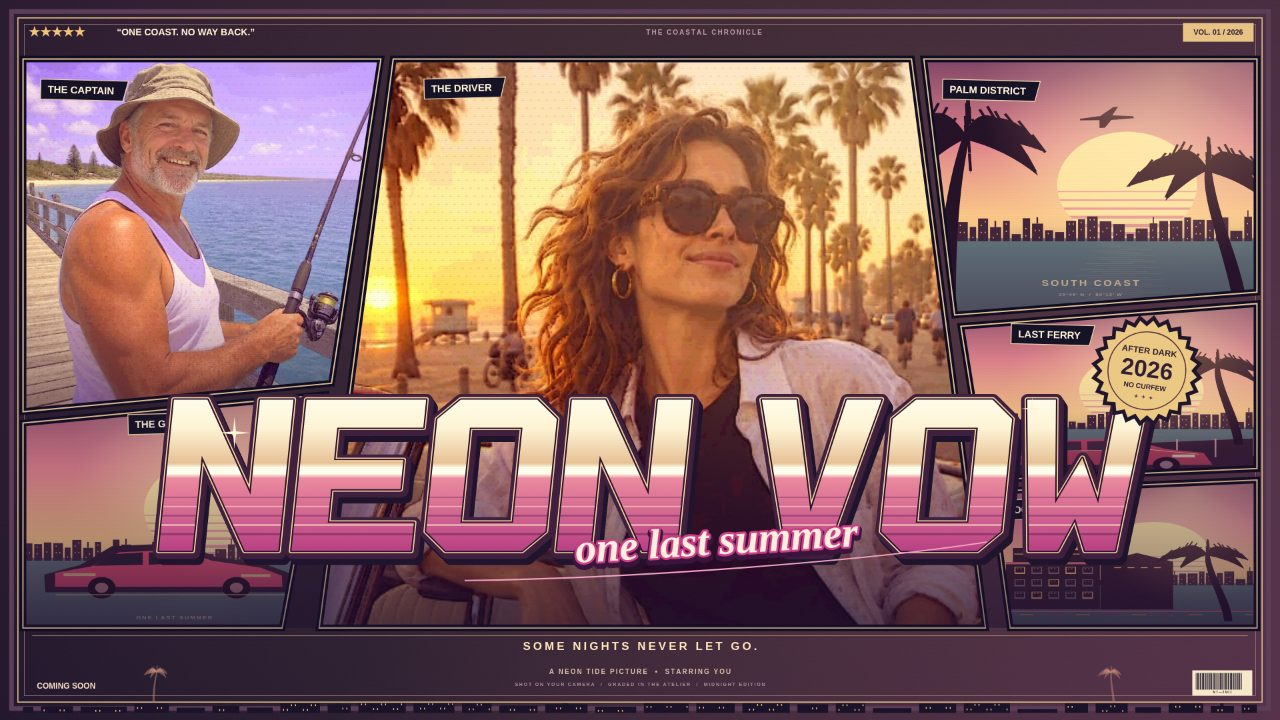
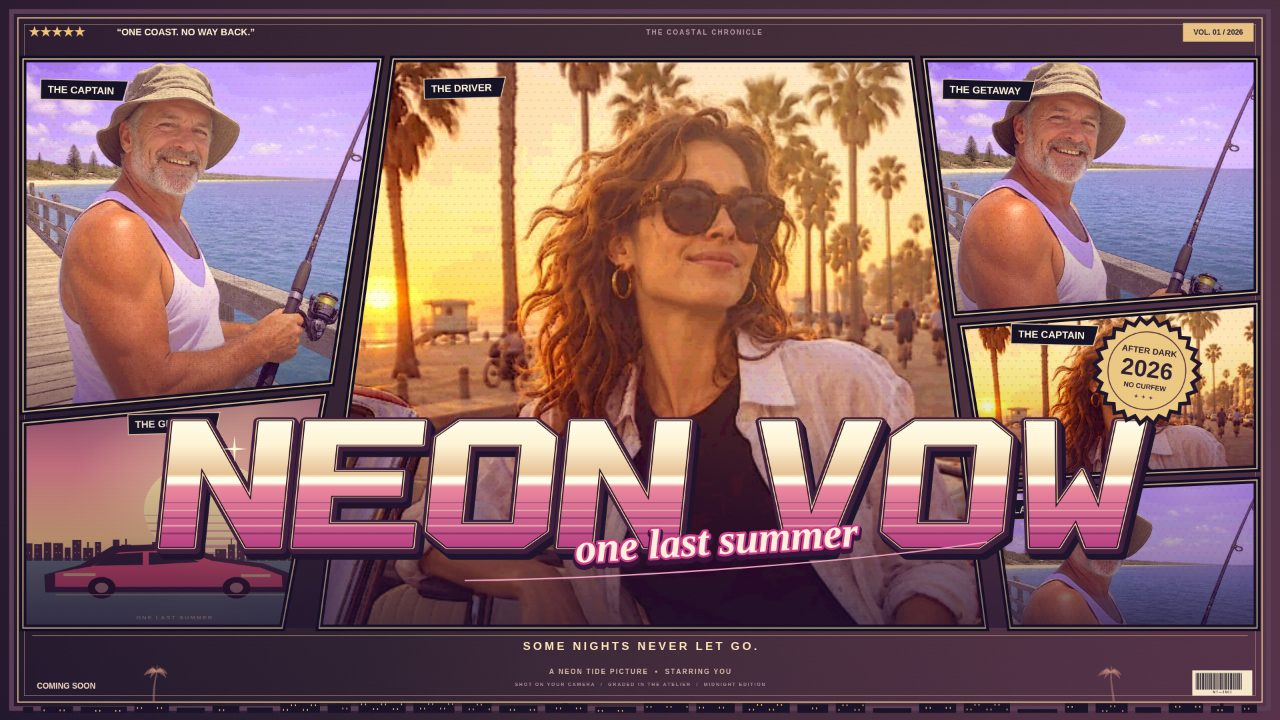
Increase photo density in Neon Tide layouts

Changed region(s): [[0.5938, 0.0611, 1.0, 0.8861], [0.0938, 0.55, 0.5625, 0.7944], [0.625, 0.7639, 0.6562, 0.7944]]

diff --git a/app/src/art.js b/app/src/art.js
@@ -20,10 +20,10 @@ export const LAYOUTS = [
   { id: 'headliner', name: 'Headliner', panels: [
     cut([[0,0],[.29,0],[.25,.57],[0,.62]], 'THE CAPTAIN', 'photo', 1),
     cut([[.30,0],[.72,0],[.78,1],[.24,1]], 'THE DRIVER', 'photo', 0),
-    cut([[.73,0],[1,0],[1,.41],[.755,.45]], 'PALM DISTRICT', 'establishing'),
+    cut([[.73,0],[1,0],[1,.41],[.755,.45]], 'THE GETAWAY', 'photo', 1),
     cut([[0,.64],[.245,.59],[.21,1],[0,1]], 'THE GETAWAY', 'coupe'),
-    cut([[.76,.47],[1,.43],[1,.72],[.78,.74]], 'LAST FERRY', 'marina'),
-    cut([[.785,.76],[1,.74],[1,1],[.80,1]], 'OCEAN DRIVE', 'motel'),
+    cut([[.76,.47],[1,.43],[1,.72],[.78,.74]], 'THE CAPTAIN', 'photo', 0),
+    cut([[.785,.76],[1,.74],[1,1],[.80,1]], 'LAST LIGHT', 'photo', 1),
   ]},
   { id: 'crossfire', name: 'Crossfire', panels: [
     cut([[0,0],[.61,0],[.53,.66],[0,.58]], 'THE DRIVER', 'photo', 0),
@@ -517,13 +517,13 @@ export function renderPoster(canvas, state, photos, options = {}) {
   const singleLine=wide && total<19;
   const titleWidth=width*(wide?.76:.88);
   if(singleLine) {
-    const th=height*(total>12?.185:.21);
-    drawOriginalChromeTitle(ctx,flattened,width*.51,height*.555,titleWidth,th,state.finish);
+    const th=height*(total>12?.155:.175);
+    drawOriginalChromeTitle(ctx,flattened,width*.51,height*.585,titleWidth,th,state.finish);
     paintBrushSubtitle(ctx,state.subtitle||'one last summer',width*.56,height*.755,height*.058,width*.62);
   } else {
     const rows=titleLines.length;
-    const th=height*(rows===1?.17:.137);
-    const firstY=height*(rows===1?.65:.535);
+    const th=height*(rows===1?.145:.108);
+    const firstY=height*(rows===1?.675:.585);
     titleLines.forEach((line,index)=>drawOriginalChromeTitle(ctx,line,width*.51,firstY+index*(th+height*.009),Math.min(titleWidth,titleWidth*(line.length/(Math.max(...titleLines.map(t=>t.length))))),th,state.finish));
     paintBrushSubtitle(ctx,state.subtitle||'one last summer',width*.55,height*.838,height*.042,width*.76);
   }
